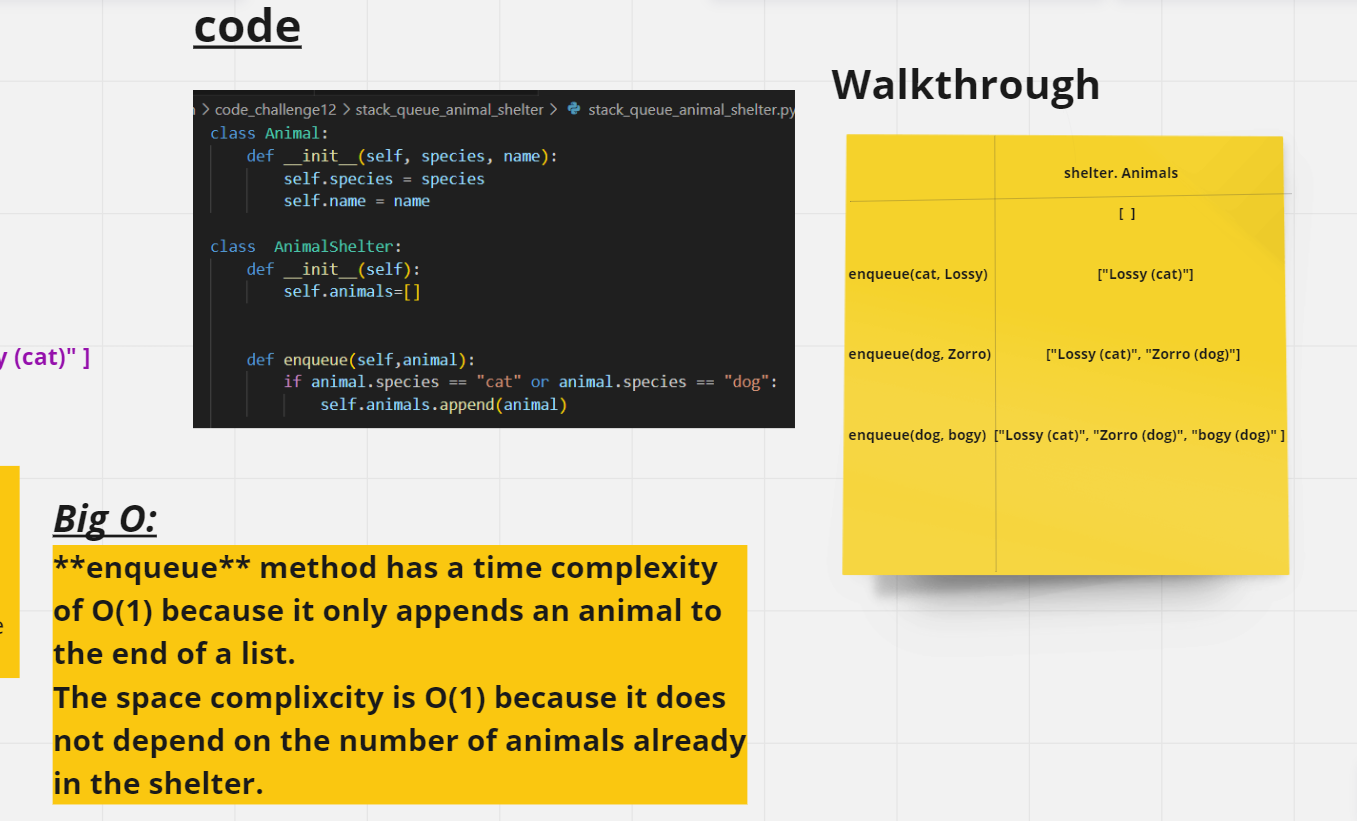
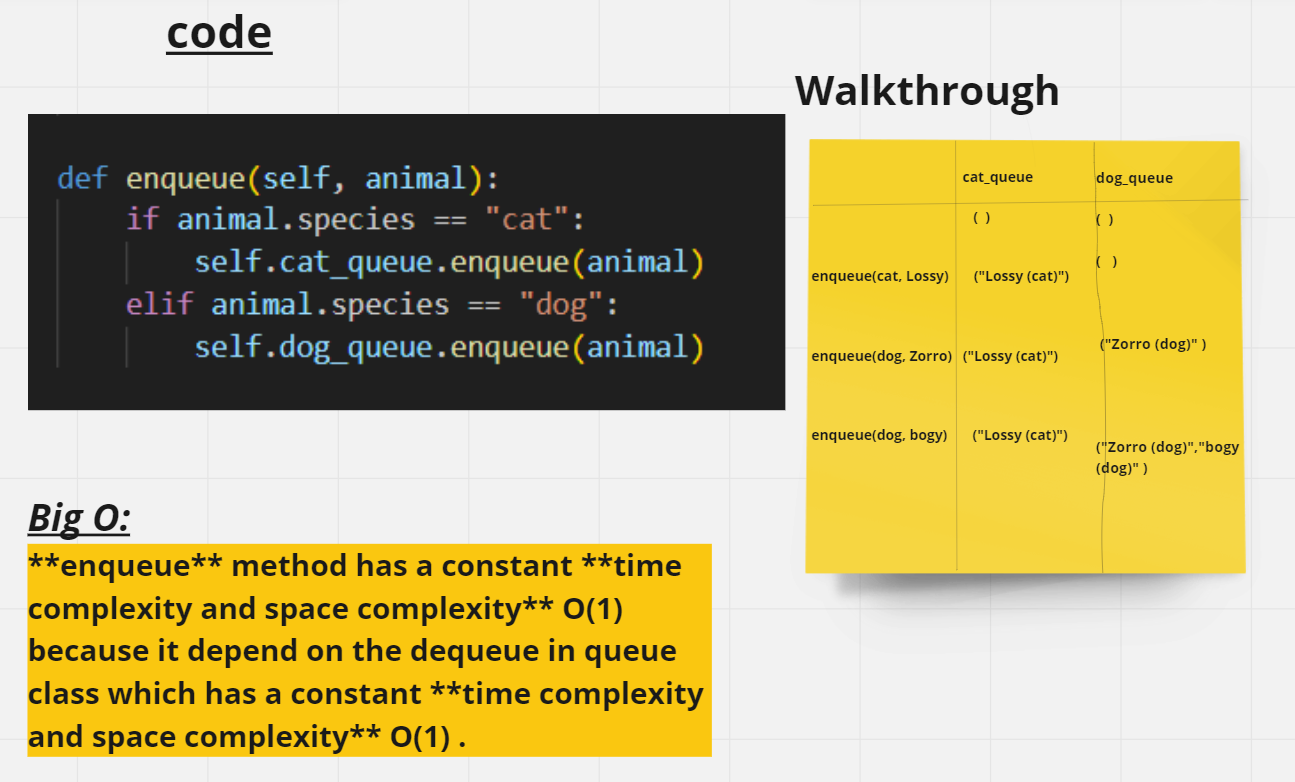
editing the stack-queue-animal-shelter

Changed region(s): [[0.0, 0.0, 0.9884, 0.798], [0.0, 0.5524, 0.556, 0.9821]]

diff --git a/Python/code_challenge12/stack_queue_animal_shelter/stack_queue_animal_shelter.py b/Python/code_challenge12/stack_queue_animal_shelter/stack_queue_animal_shelter.py
@@ -1,35 +1,140 @@
+class Node:
+    def __init__(self,value,next=None) :
+        self.value=value
+        self.next=next
+
+class Queue:
+    """
+        Initializes a new instance of the Queue class.
+
+        Args:
+            front (Node, optional): The front node of the queue. Defaults to None.
+            back (Node, optional): The back node of the queue. Defaults to None.
+    """
+    def __init__(self,front=None,back=None):
+        self.front=front
+        self.back=back
+        
+    def enqueue(self,value):
+        """
+        Adds a value to the back of the queue.
+
+        Args:
+            value: The value to be added to the queue.
+        """
+        node=Node(value)
+        if self.front is None:
+            self.back=node
+            self.front=node
+        else:
+            self.back.next=node
+            self.back=node
+    
+    def dequeue(self):
+        """
+        Removes and returns the value at the front of the queue.
+
+        Returns:
+            The value at the front of the queue.
+
+        Raises:
+            EmptyError: If the queue is empty.
+        """
+        if self.front is None:
+            raise EmptyError("Stack is empty!")
+        else:
+            temp=self.front
+            self.front=temp.next
+            temp.next=None
+        return temp.value
+    
+    def peek(self):
+        """
+        Returns the value at the front of the queue without removing it.
+
+        Returns:
+            The value at the front of the queue.
+
+        Raises:
+            EmptyError: If the queue is empty.
+        """
+        if self.front is None:
+            raise EmptyError("Stack is empty!")
+        else:
+            return self.front.value
+        
+    def is_empty(self):
+        """
+        Checks if the queue is empty.
+
+        Returns:
+            True if the queue is empty, False otherwise.
+        """
+        if self.front is None:
+            return True
+        else:
+            return False
 class Animal:
+    """
+    Represents an animal with a species and name.
+
+    Args:
+        species (str): The species of the animal.
+        name (str): The name of the animal.
+    """
     def __init__(self, species, name):
         self.species = species
         self.name = name
 
-class  AnimalShelter:
+class AnimalShelter:
+    """
+    Represents an animal shelter that can enqueue and dequeue animals.
+
+    Attributes:
+        cat_queue (Queue): The queue to store cat animals.
+        dog_queue (Queue): The queue to store dog animals.
+    """
     def __init__(self):
-        self.animals=[]
-    
-    
-    def enqueue(self,animal):
-        if animal.species == "cat" or animal.species == "dog":
-            self.animals.append(animal)
+        self.cat_queue = Queue()
+        self.dog_queue = Queue()
 
-    def dequeue(self,pref):
-        if pref == "cat" or pref == "dog":
-            for i,animal in enumerate(self.animals):
-                if animal.species == pref:
-                   pop_value= self.animals.pop(i)
-                   return pop_value.species
+    def enqueue(self, animal):
+        """
+        Enqueues an animal into the appropriate queue.
+
+        Args:
+            animal (Animal): The animal object to enqueue.
+        """
+
+        if animal.species == "cat":
+            self.cat_queue.enqueue(animal)
+        elif animal.species == "dog":
+            self.dog_queue.enqueue(animal)
+
+    def dequeue(self, pref):
+        """
+        Dequeues and returns an animal from the preferred species queue.
+
+        Args:
+            pref (str): The preferred species of the animal ("cat" or "dog").
+
+        Returns:
+            The dequeued animal from the preferred species queue.
+        """
         
-        return None
-    
-
-    def print_animals(self):
-        for animal in self.animals:
-            print(f"Species: {animal.species}, Name: {animal.name}")
-    
-
+        if pref == "cat":
+            return self.cat_queue.dequeue()
+        elif pref == "dog":
+            return self.dog_queue.dequeue()
+        else:
+            return None
 
 
-
+class EmptyError(Exception):
+    """
+    Custom exception class for empty data structures.
+    """
+    pass
 
 if __name__ == "__main__":
     shelter = AnimalShelter()
@@ -41,11 +146,15 @@ if __name__ == "__main__":
     shelter.enqueue(cat2)
     dog2=Animal("dog","bogy")
     shelter.enqueue(dog2)
-    shelter.print_animals()
     print("///////////////////////////")
-    print(shelter.dequeue("cat"))
-    shelter.dequeue("cat")
-    shelter.print_animals()
+    pref = "cat"
+    dequeued_animal = shelter.dequeue(pref)
+    print(dequeued_animal.name)
+    pref = "dog"
+    dequeued_animal = shelter.dequeue(pref)
+    print(dequeued_animal.name)
+  
+   
 
 
         

diff --git a/Python/code_challenge12/code_challenge12.md b/Python/code_challenge12/code_challenge12.md
@@ -11,11 +11,9 @@
 
 ## Approach & Efficiency
 
-**enqueue** method has a time complexity of O(1) because it only appends an animal to the end of a list.
-The space complixcity is O(1) because it does not depend on the number of animals already in the shelter.
+**enqueue** method has a constant **time complexity and space complexity** O(1) because it depend on the dequeue in queue class which has a constant **time complexity and space complexity** O(1) .
 
-**dequeue** method can be considered O(n), where n is the number of animals in the list.
-The space complixcity is O(n), because all the animals after the removed animal need to be shifted to fill the empty space.
+**dequeue** method has a constant **time complexity and space complexity** O(1) beecause it depend on the enqueue in queue class which has a constant **time complexity and space complexity** O(1) .
 
 ## Solution
 python Python/code_challenge12/stack_queue_animal_shelter/stack_queue_animal_shelter.py
@@ -25,15 +23,17 @@ if __name__ == "__main__":
     shelter = AnimalShelter()
     cat1=Animal("cat","LoLo")
     shelter.enqueue(cat1)
-    dog1=Animal("dog","zoro")
+    dog1=Animal("dog","zorro")
     shelter.enqueue(dog1)
-    cat2=Animal("cat","losy")
+    cat2=Animal("cat","lossy")
     shelter.enqueue(cat2)
     dog2=Animal("dog","bogy")
     shelter.enqueue(dog2)
-    shelter.print_animals()
     print("///////////////////////////")
-    shelter.dequeue("cat")
-    shelter.dequeue("cat")
-    shelter.print_animals()
+    pref = "cat"
+    dequeued_animal = shelter.dequeue(pref)
+    print(dequeued_animal.name)
+    pref = "dog"
+    dequeued_animal = shelter.dequeue(pref)
+    print(dequeued_animal.name)
 ```
